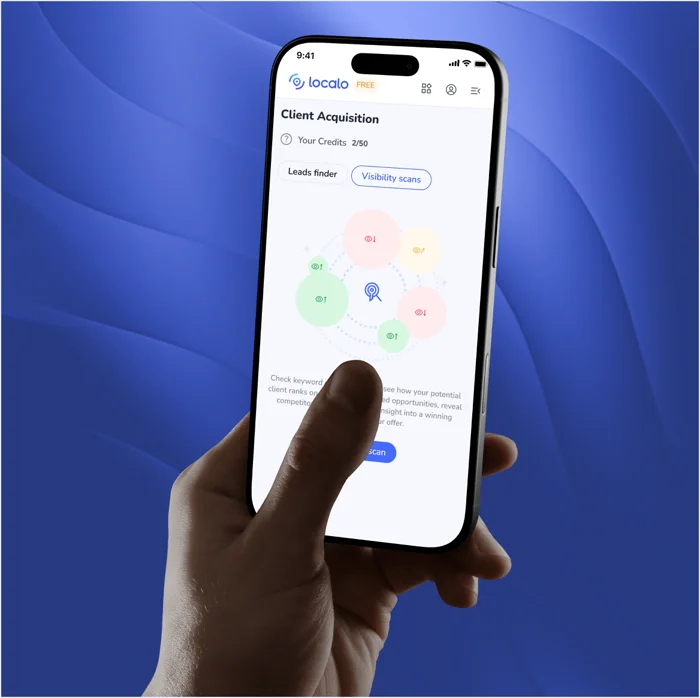
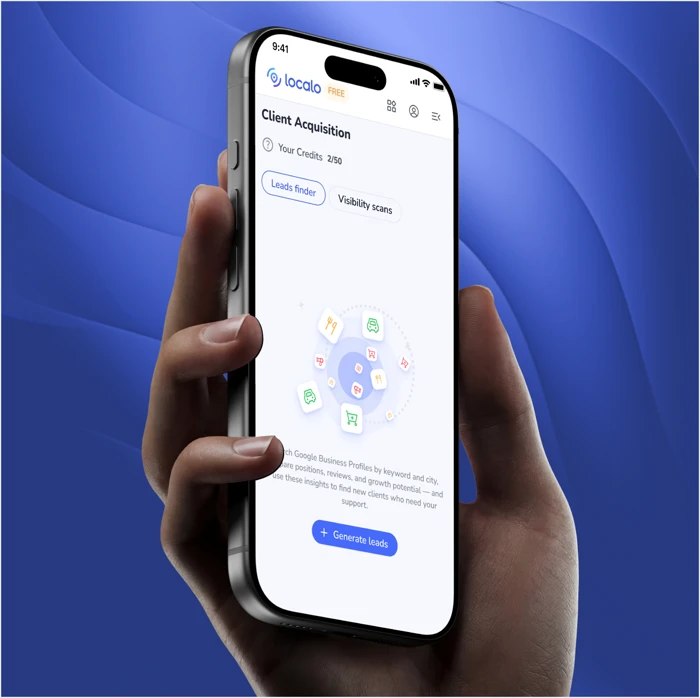
Client Acquisition: reorder hero phones, build b7 from Figma
Hero row now sits directly under the section title (before the intro
paragraph) and shows the phones in order 3/4/2 (Leads finder state,
Generate new leads modal, map view).

b7 (Aktywacja nowej wizytowki) was text-only; now matches the Figma
reference (node 469-148220) with a two-column pair: the previously
unused phone hero photo on the left (ImageBox, a plain bordered
image box) and the Confirm activation modal screenshot with the
existing title/text on the right (ShotCard).

diff --git a/src/pages/ClientAcquisitionCaseStudy.tsx b/src/pages/ClientAcquisitionCaseStudy.tsx
@@ -281,6 +281,16 @@ function ShotCard({ img, alt, title, text }: { img: string; alt: string; title: 
   )
 }
 
+/** Bordered, text-less image box — pairs with ShotCard in the b7 layout so a
+ * plain photo and a captioned screenshot sit side by side at equal height. */
+function ImageBox({ img, alt }: { img: string; alt: string }) {
+  return (
+    <div style={{ flex: 1, minWidth: 0, height: "100%", border: "1px solid var(--pf-accent-100, #E3E9FE)", borderRadius: 24, overflow: "hidden", boxSizing: "border-box" }}>
+      <img src={img} alt={alt} style={{ width: "100%", height: "100%", objectFit: "cover", display: "block" }} />
+    </div>
+  )
+}
+
 /** Bigger full-width sibling of ShotCard — same bordered box, image on top,
  * padded text below — used for the single-image blocks in chapter 07. */
 function BigShotCard({ img, alt, title, text }: { img: string; alt: string; title: string; text: string }) {
@@ -602,9 +612,6 @@ export function ClientAcquisitionCaseStudy() {
           <Reveal style={{ width: "100%" }}>
             <SectionHeader eyebrow={t.rozwiazanie.eyebrow} title={t.rozwiazanie.title} />
           </Reveal>
-          <Reveal style={{ width: "100%" }}>
-            <p className="pf-body" style={{ margin: 0 }}>{t.rozwiazanie.intro}</p>
-          </Reveal>
 
           <Reveal style={{ width: "100%" }}>
             <div style={{ display: "flex", flexWrap: "wrap", gap: 24, width: "100%", justifyContent: "center" }}>
@@ -612,6 +619,10 @@ export function ClientAcquisitionCaseStudy() {
               <img src="/client-acquisition-s04-hero-2.webp" alt="" style={{ flex: "1 1 280px", maxWidth: 340, width: "100%", height: "auto", display: "block", borderRadius: 24 }} />
               <img src="/client-acquisition-s04-hero-3.webp" alt="" style={{ flex: "1 1 280px", maxWidth: 340, width: "100%", height: "auto", display: "block", borderRadius: 24 }} />
             </div>
+          </Reveal>
+
+          <Reveal style={{ width: "100%" }}>
+            <p className="pf-body" style={{ margin: 0 }}>{t.rozwiazanie.intro}</p>
           </Reveal>
 
           <Reveal style={{ width: "100%" }}>
@@ -657,12 +668,14 @@ export function ClientAcquisitionCaseStudy() {
             <BigShotCard img="/client-acquisition-s04-visibility-scans.webp" alt="" title={t.rozwiazanie.b6.title} text={t.rozwiazanie.b6.text} />
           </Reveal>
 
-          <Reveal style={{ width: "100%" }}>
-            <div style={{ display: "flex", flexDirection: "column", gap: 48, width: "100%" }}>
-              <h4 className="pf-h4" style={{ color: "#0A0A0A" }}>{t.rozwiazanie.b7.title}</h4>
-              <p className="pf-body" style={{ margin: 0 }}>{t.rozwiazanie.b7.text}</p>
-            </div>
-          </Reveal>
+          <StaggerGroup style={{ display: "flex", flexWrap: "wrap", gap: 24, width: "100%", alignItems: "stretch" }}>
+            <StaggerItem style={{ flex: "1 1 460px" }}>
+              <ImageBox img="/client-acquisition-s04-b7-hero.webp" alt="" />
+            </StaggerItem>
+            <StaggerItem style={{ flex: "1 1 460px" }}>
+              <ShotCard img="/client-acquisition-s04-activate.webp" alt="" title={t.rozwiazanie.b7.title} text={t.rozwiazanie.b7.text} />
+            </StaggerItem>
+          </StaggerGroup>
         </Section>
 
         <Divider />
